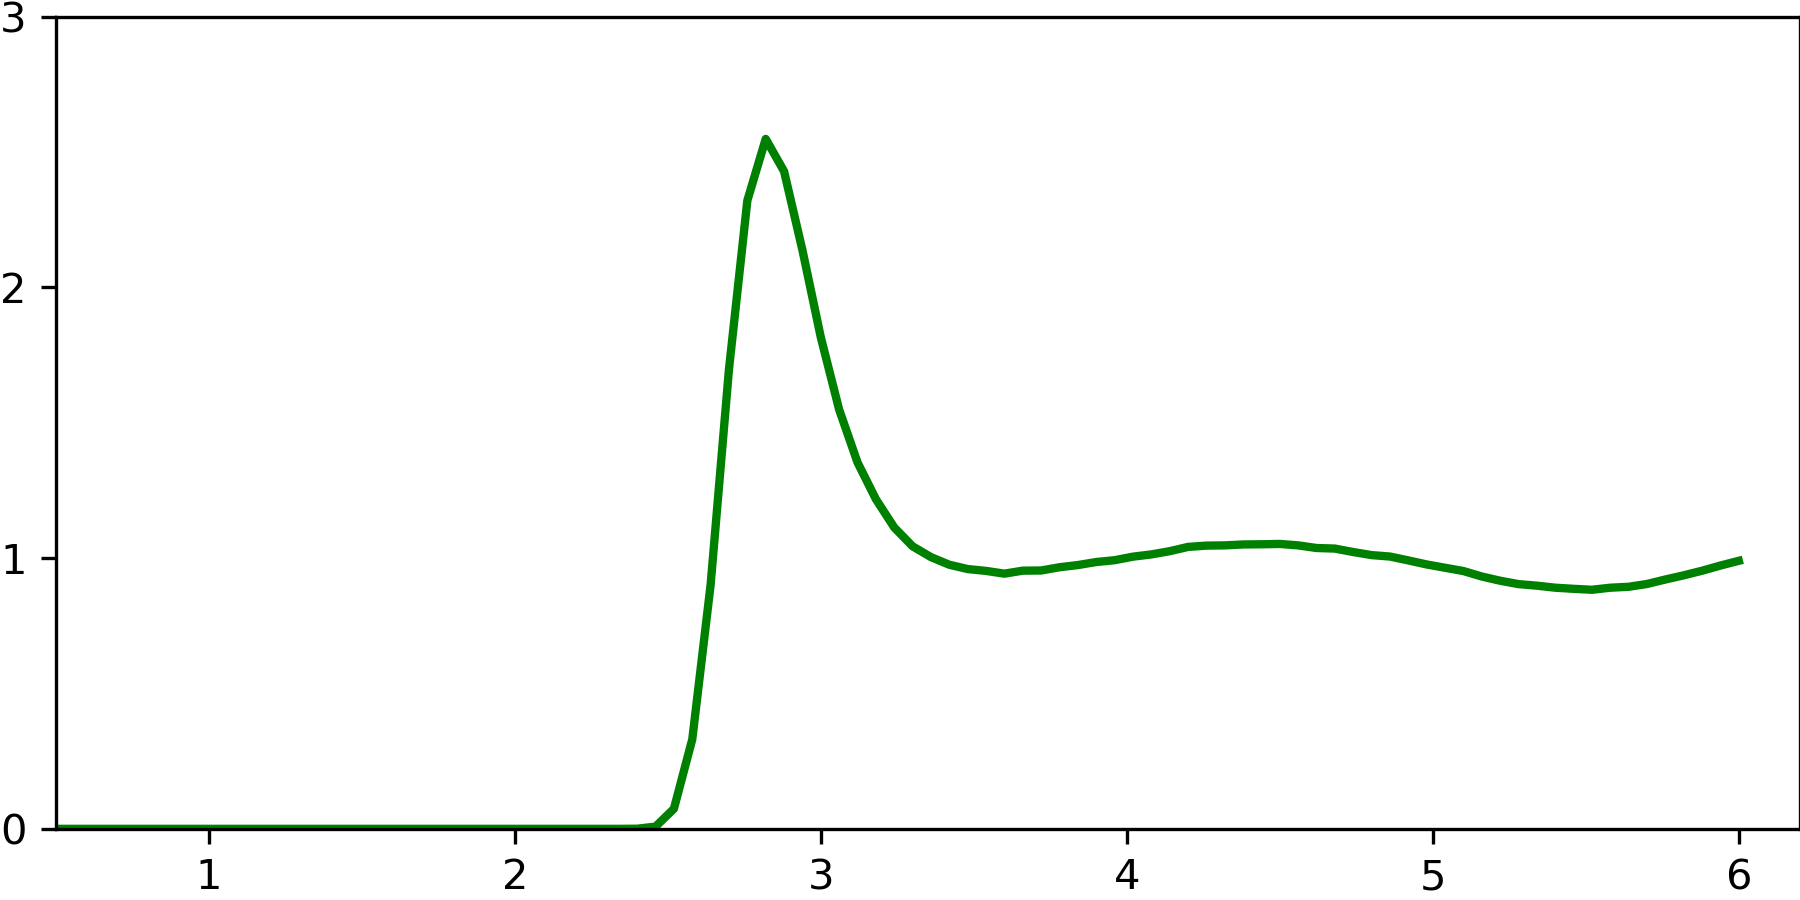
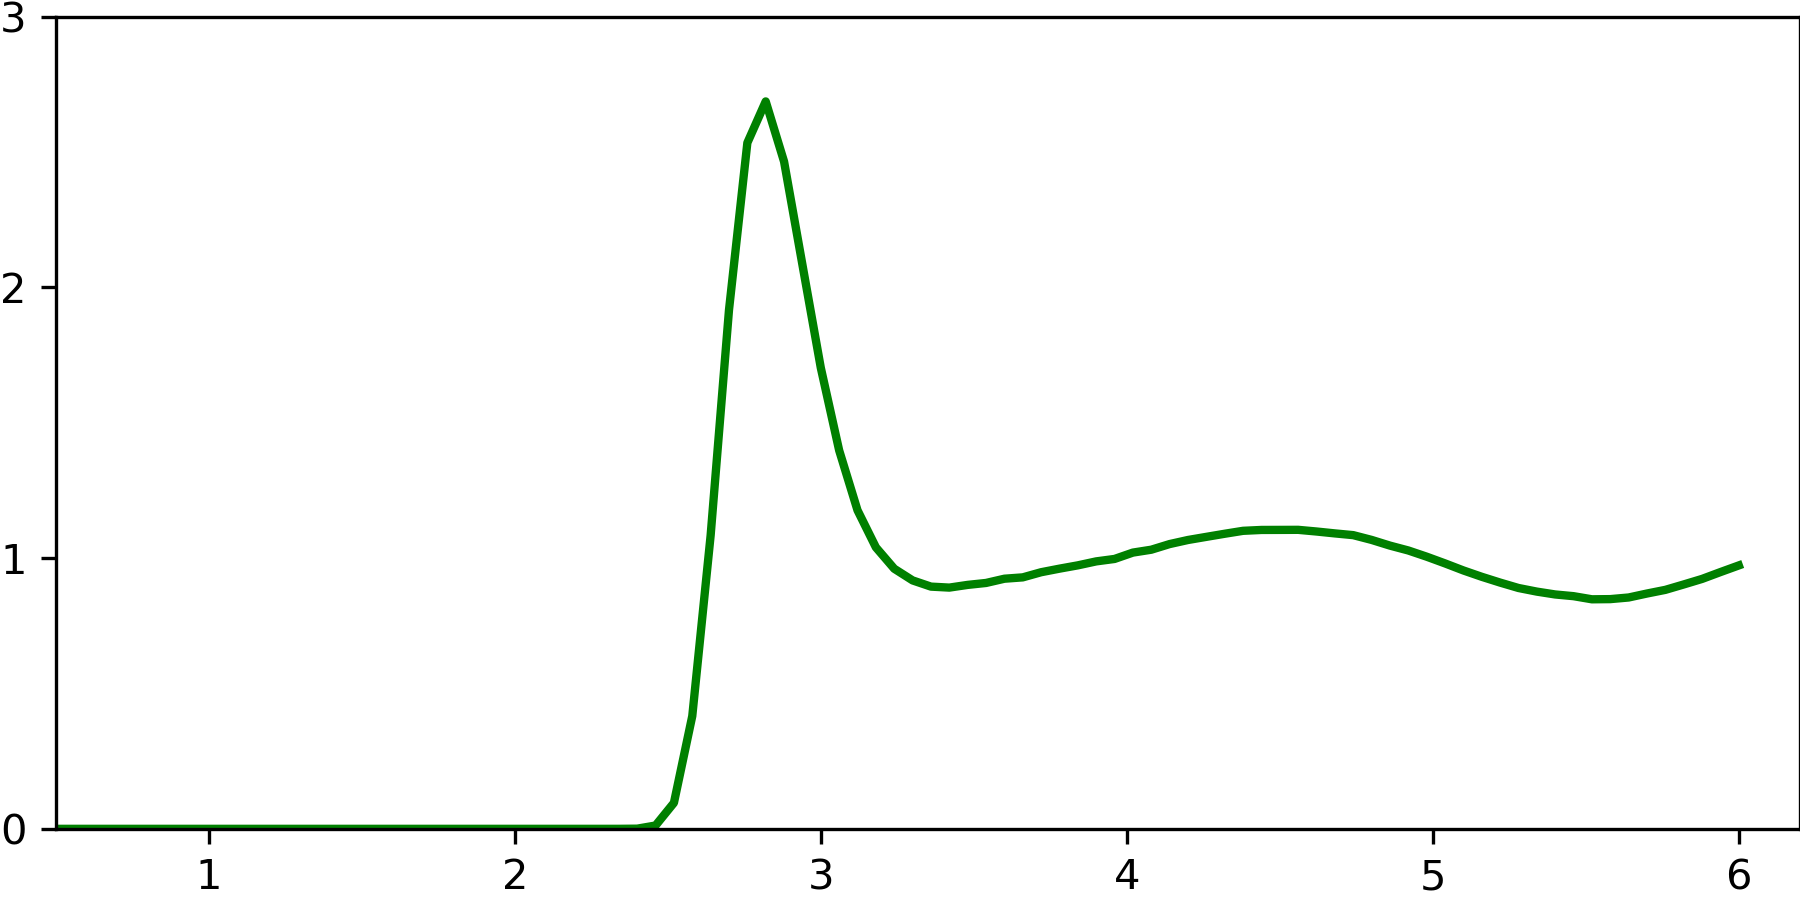
update for early stop message passing

Changed region(s): [[0.3733, 0.0933, 0.5911, 0.8711], [0.6222, 0.56, 0.9644, 0.6844]]

diff --git a/src/mattertune/wrappers/ase_calculator.py b/src/mattertune/wrappers/ase_calculator.py
@@ -16,7 +16,10 @@ if TYPE_CHECKING:
 
 class MatterTuneCalculator(Calculator):
     @override
-    def __init__(self, property_predictor: MatterTunePropertyPredictor):
+    def __init__(
+        self, 
+        property_predictor: MatterTunePropertyPredictor,
+    ):
         super().__init__()
 
         self.property_predictor = property_predictor
@@ -125,7 +128,13 @@ class MatterTuneCalculator(Calculator):
             self.results[ase_prop_name] = value
 
 
+import time
+
 class MatterTuneIntenseCalculator(Calculator):
+    """
+    A faster version of the MatterTuneCalculator that uses the `predict_step` method directly without creating a trainer.
+    """
+    
     @override
     def __init__(self, model: FinetuneModuleBase, device: torch.device):
         super().__init__()
@@ -141,6 +150,10 @@ class MatterTuneIntenseCalculator(Calculator):
                 continue
             self.implemented_properties.append(ase_prop_name)
             self._ase_prop_to_config[ase_prop_name] = prop
+        
+        self.prepare_times = []
+        self.forward_times = []
+        self.collect_times = []
 
     @override
     def calculate(
@@ -149,8 +162,8 @@ class MatterTuneIntenseCalculator(Calculator):
         properties: list[str] | None = None,
         system_changes: list[str] | None = None,
     ):
-        # if properties is None:
-        #     properties = copy.deepcopy(self.implemented_properties)
+        if properties is None:
+            properties = copy.deepcopy(self.implemented_properties)
 
         # Call the parent class to set `self.atoms`.
         Calculator.calculate(self, atoms)
@@ -167,16 +180,21 @@ class MatterTuneIntenseCalculator(Calculator):
             "Please report this as a bug."
         )
         
+        time1 = time.time()
         data = self.model.atoms_to_data(self.atoms, has_labels=False)
         batch = self.model.collate_fn([data])
         batch = batch.to(self.model.device)
+        self.prepare_times.append(time.time() - time1)
         
-        prop_configs = [self._ase_prop_to_config[prop] for prop in self.implemented_properties]
+        time1 = time.time()
         pred = self.model.predict_step(
             batch = batch,
             batch_idx = 0,
         )
+        self.forward_times.append(time.time() - time1)
         
+        time1 = time.time() 
+        prop_configs = [self._ase_prop_to_config[prop] for prop in properties]
         for prop in prop_configs:
             ase_prop_name = prop.ase_calculator_property_name()
             assert ase_prop_name is not None, (
@@ -185,10 +203,10 @@ class MatterTuneIntenseCalculator(Calculator):
                 "Please report this as a bug."
             )
 
-            value = pred[prop.name].detach().to(torch.float32).cpu().numpy()
+            value = pred[prop.name].detach().to(torch.float32).cpu().numpy() # type: ignore
             value = value.astype(prop._numpy_dtype())
             value = prop.prepare_value_for_ase_calculator(value)
 
             self.results[ase_prop_name] = value
-        
+        self.collect_times.append(time.time() - time1)
         

diff --git a/src/mattertune/finetune/base.py b/src/mattertune/finetune/base.py
@@ -28,6 +28,9 @@ log = logging.getLogger(__name__)
 
 class FinetuneModuleBaseConfig(C.Config, ABC):
     
+    reset_backbone: bool = False
+    """Whether to reset the backbone of the model when creating the model."""
+    
     reset_output_heads: bool = False
     """Whether to reset the output heads of the model when creating the model."""
     
@@ -57,6 +60,9 @@ class FinetuneModuleBaseConfig(C.Config, ABC):
 
     The normalizers are applied in the order they are defined in the list.
     """
+    
+    early_stop_message_passing: int | None = None
+    """Number of message passing steps for early stopping. If None, no early stopping is applied."""
 
     @classmethod
     @abstractmethod
@@ -159,6 +165,13 @@ class FinetuneModuleBase(
 
         You should also construct any other ``nn.Module`` instances
         necessary for the forward pass here.
+        """
+        ...
+        
+    @abstractmethod
+    def apply_early_stop_message_passing(self, message_passing_steps: int|None):
+        """
+        Apply message passing for early stopping.
         """
         ...
 
@@ -326,6 +339,7 @@ class FinetuneModuleBase(
 
         # Create the backbone model and output heads
         self.create_model()
+        self.apply_early_stop_message_passing(self.hparams.early_stop_message_passing)
 
         # Create metrics
         self.create_metrics()
@@ -704,7 +718,10 @@ class FinetuneModuleBase(
         self, 
         # lightning_trainer_kwargs: dict[str, Any] | None = None,
         device: str = "cpu",
-        intense: bool = False
+        intense: bool = False,
+        energy_weight: float = 1.0,
+        force_weight: float = 1.0,
+        stress_weight: float = 1.0,
     ):
         """Returns an ASE calculator wrapper for the interatomic potential.
 
@@ -758,7 +775,6 @@ class FinetuneModuleBase(
                 "enable_progress_bar": False,
                 "enable_model_summary": False,
                 "logger": False,
-                "barebones": True,
             }
             property_predictor = self.property_predictor(
                 lightning_trainer_kwargs=lightning_trainer_kwargs

diff --git a/src/mattertune/backbones/jmp/model.py b/src/mattertune/backbones/jmp/model.py
@@ -128,9 +128,6 @@ class JMPBackboneConfig(FinetuneModuleBaseConfig):
     freeze_backbone: bool = False
     """Whether to freeze the backbone during training."""
 
-    freeze_backbone: bool = False
-    """Whether to freeze the backbone during training."""
-
     @override
     def create_model(self):
         return JMPBackboneModule(self)
@@ -258,6 +255,12 @@ class JMPBackboneModule(FinetuneModuleBase["Data", "Batch", JMPBackboneConfig]):
 
         assert ckpt_path is not None
         self.backbone = GemNetOCBackbone.from_pretrained_ckpt(ckpt_path)
+        
+        if self.hparams.reset_backbone:
+            for module in self.backbone.modules():
+                if hasattr(module, "reset_parameters"):
+                    module.reset_parameters()
+        
         log.info(
             f"Loaded the model from the checkpoint at {ckpt_path}. The model "
             f"has {sum(p.numel() for p in self.backbone.parameters()):,} parameters."
@@ -431,6 +434,16 @@ class JMPBackboneModule(FinetuneModuleBase["Data", "Batch", JMPBackboneConfig]):
         )
         compositions = compositions[:, 1:]  # Remove the zeroth element
         return NormalizationContext(compositions=compositions)
+    
+    @override
+    def apply_early_stop_message_passing(self, message_passing_steps: int|None):
+        """
+        Apply message passing for early stopping.
+        """
+        if message_passing_steps is None:
+            pass
+        else:
+            self.backbone.num_blocks = min(self.backbone.num_blocks, message_passing_steps)
 
 
 def _get_fixed(atoms: Atoms):

diff --git a/examples/water-thermodynamics/draw_rdf_plots.py b/examples/water-thermodynamics/draw_rdf_plots.py
@@ -27,11 +27,16 @@ gOO_eqv2_data = np.load("./results/eqv2-30-refill-g_OO(r).npz")
 gOO_eqv2_r_values = gOO_eqv2_data["rdf_x"]
 gOO_eqv2_g_values = gOO_eqv2_data["rdf_y"]
 
+gOO_mattersim_mpx2_data = np.load("./results/mattersim-1m-mpx2-g_OO(r).npz")
+gOO_mattersim_mpx2_r_values = gOO_mattersim_mpx2_data["rdf_x"]
+gOO_mattersim_mpx2_g_values = gOO_mattersim_mpx2_data["rdf_y"]
+
 plt.scatter(gOO_benchmark_r_values, gOO_benchmark_g_values, label="Experiment", color="black", marker="o", s=10)
 plt.plot(gOO_mattersim_r_values, gOO_mattersim_g_values, label="MatterSim-V1-1M (30 samples)", color="#EA8379", linewidth=2)
-plt.plot(gOO_jmp_r_values, gOO_jmp_g_values, label="JMP-S (30 samples)", color="#7DAEE0", linestyle="dashed", linewidth=2)
-plt.plot(gOO_orb_r_values, gOO_orb_g_values, label="ORB-V2 (30 samples)", color="#B395BD", linestyle=":", linewidth=2)
-plt.plot(gOO_eqv2_r_values, gOO_eqv2_g_values, label="EqV2-31M (30 samples)", color="#1B7C3D", linestyle="-.", linewidth=2)
+# plt.plot(gOO_jmp_r_values, gOO_jmp_g_values, label="JMP-S (30 samples)", color="#7DAEE0", linestyle="dashed", linewidth=2)
+# plt.plot(gOO_orb_r_values, gOO_orb_g_values, label="ORB-V2 (30 samples)", color="#B395BD", linestyle=":", linewidth=2)
+# plt.plot(gOO_eqv2_r_values, gOO_eqv2_g_values, label="EqV2-31M (30 samples)", color="#1B7C3D", linestyle="-.", linewidth=2)
+plt.plot(gOO_mattersim_r_values, gOO_mattersim_mpx2_g_values, label="MatterSim-V1-1M-MPX2 (30 samples)", color="#7DAEE0", linestyle="dotted", linewidth=2)
 
 plt.xlabel(r"$r$ ($\AA$)")
 plt.ylabel(r"$g_{OO}(r)$")

diff --git a/examples/water-thermodynamics/md.py b/examples/water-thermodynamics/md.py
@@ -54,7 +54,7 @@ def main(args_dict: dict):
             "Invalid fine-tuning model, must be one of 'jmp', 'orb', 'm3gnet', or 'mattersim', 'eqv2'"
         )
     calc = model.ase_calculator(
-        device=f"cuda:{args_dict['device']}",
+        device=f"cuda:{args_dict['device']}", intense=True
     )
     atoms = read(args_dict["init_struct"])
     assert isinstance(atoms, Atoms), "Expected an Atoms object"
@@ -134,11 +134,11 @@ if __name__ == "__main__":
     parser.add_argument(
         "--ckpt_path",
         type=str,
-        default="./checkpoints/eqv2-best-30-refill.ckpt",
+        default="/nethome/lkong88/MatterTune/examples/hidden/early_stop_mp/water-checkpoints/mattersim-1m-best-30-refill-reset_backbone.ckpt",
     )
     parser.add_argument("--thermo_state", type=str, default="NPT")
     parser.add_argument("--init_struct", type=str, default="./data/H2O.xyz")
-    parser.add_argument("--device", type=int, default=1)
+    parser.add_argument("--device", type=int, default=0)
     parser.add_argument("--temperature", type=float, default=298)
     parser.add_argument("--timestep", type=float, default=0.5)
     parser.add_argument("--friction", type=float, default=0.02)

diff --git a/src/mattertune/backbones/orb/model.py b/src/mattertune/backbones/orb/model.py
@@ -219,6 +219,10 @@ class ORBBackboneModule(
 
         backbone = backbone.train()
         self.backbone = backbone
+        if self.hparams.reset_backbone:
+            for module in self.backbone.modules():
+                if hasattr(module, "reset_parameters"):
+                    module.reset_parameters()
 
         log.info(
             f'Loaded the ORB pre-trained model "{self.hparams.pretrained_model}". The model '
@@ -430,3 +434,15 @@ class ORBBackboneModule(
             raise ValueError("No composition found in the batch.")
         compositions = compositions[:, 1:]  # Remove the zeroth element
         return NormalizationContext(compositions=compositions)
+    
+    @override
+    def apply_early_stop_message_passing(self, message_passing_steps: int|None):
+        """
+        Apply message passing for early stopping.
+        """
+        if message_passing_steps is None:
+            pass
+        else:
+            self.backbone.num_message_passing_steps = min(
+                message_passing_steps, self.backbone.num_message_passing_steps
+            )

diff --git a/src/mattertune/backbones/mattersim/model.py b/src/mattertune/backbones/mattersim/model.py
@@ -132,6 +132,10 @@ class MatterSimM3GNetBackboneModule(
                 reset_head_for_finetune=True,
             )
         self.backbone.model.train()
+        if self.hparams.reset_backbone:
+            for module in self.backbone.modules():
+                if hasattr(module, "reset_parameters"):
+                    module.reset_parameters()
 
         if isinstance(self.hparams.graph_convertor, dict):
             self.hparams.graph_convertor = MatterSimGraphConvertorConfig(
@@ -310,3 +314,13 @@ class MatterSimM3GNetBackboneModule(
     @override
     def apply_callable_to_backbone(self, fn):
         return fn(self.backbone)
+    
+    @override
+    def apply_early_stop_message_passing(self, message_passing_steps: int|None):
+        """
+        Apply message passing for early stopping.
+        """
+        if message_passing_steps is None:
+            pass
+        else:
+            self.backbone.model.num_blocks = min(self.backbone.model.num_blocks, message_passing_steps)

diff --git a/src/mattertune/backbones/eqV2/model.py b/src/mattertune/backbones/eqV2/model.py
@@ -53,9 +53,6 @@ class EqV2BackboneConfig(FinetuneModuleBaseConfig):
     freeze_backbone: bool = False
     """Whether to freeze the backbone during training."""
 
-    freeze_backbone: bool = False
-    """Whether to freeze the backbone during training."""
-
     @override
     @classmethod
     def ensure_dependencies(cls):
@@ -493,3 +490,11 @@ class EqV2BackboneModule(FinetuneModuleBase["BaseData", "Batch", EqV2BackboneCon
         )
         compositions = compositions[:, 1:]  # Remove the zeroth element
         return NormalizationContext(compositions=compositions)
+    
+    @override
+    def apply_early_stop_message_passing(self, message_passing_steps: int|None):
+        """
+        Apply message passing for early stopping.
+        Does nothing for eqV2.
+        """
+        pass

diff --git a/examples/water-thermodynamics/rdf_analysis.py b/examples/water-thermodynamics/rdf_analysis.py
@@ -187,9 +187,9 @@ if __name__ == "__main__":
     parser.add_argument(
         "--md_traj",
         type=str,
-        default="/net/csefiles/coc-fung-cluster/lingyu/water_md/water_eqv2-best-30-refill_NPT.xyz",
+        default="/net/csefiles/coc-fung-cluster/lingyu/water_md/water_mattersim-1m-MPx2-30-refill_NPT.xyz",
     )
-    parser.add_argument("--n_frames", type=int, default=130000)
+    parser.add_argument("--n_frames", type=int, default=150000)
     parser.add_argument("--r_max", type=float, default=6.0)
     parser.add_argument("--r_step", type=float, default=0.06)
     parser.add_argument("--transparent", action="store_true")
